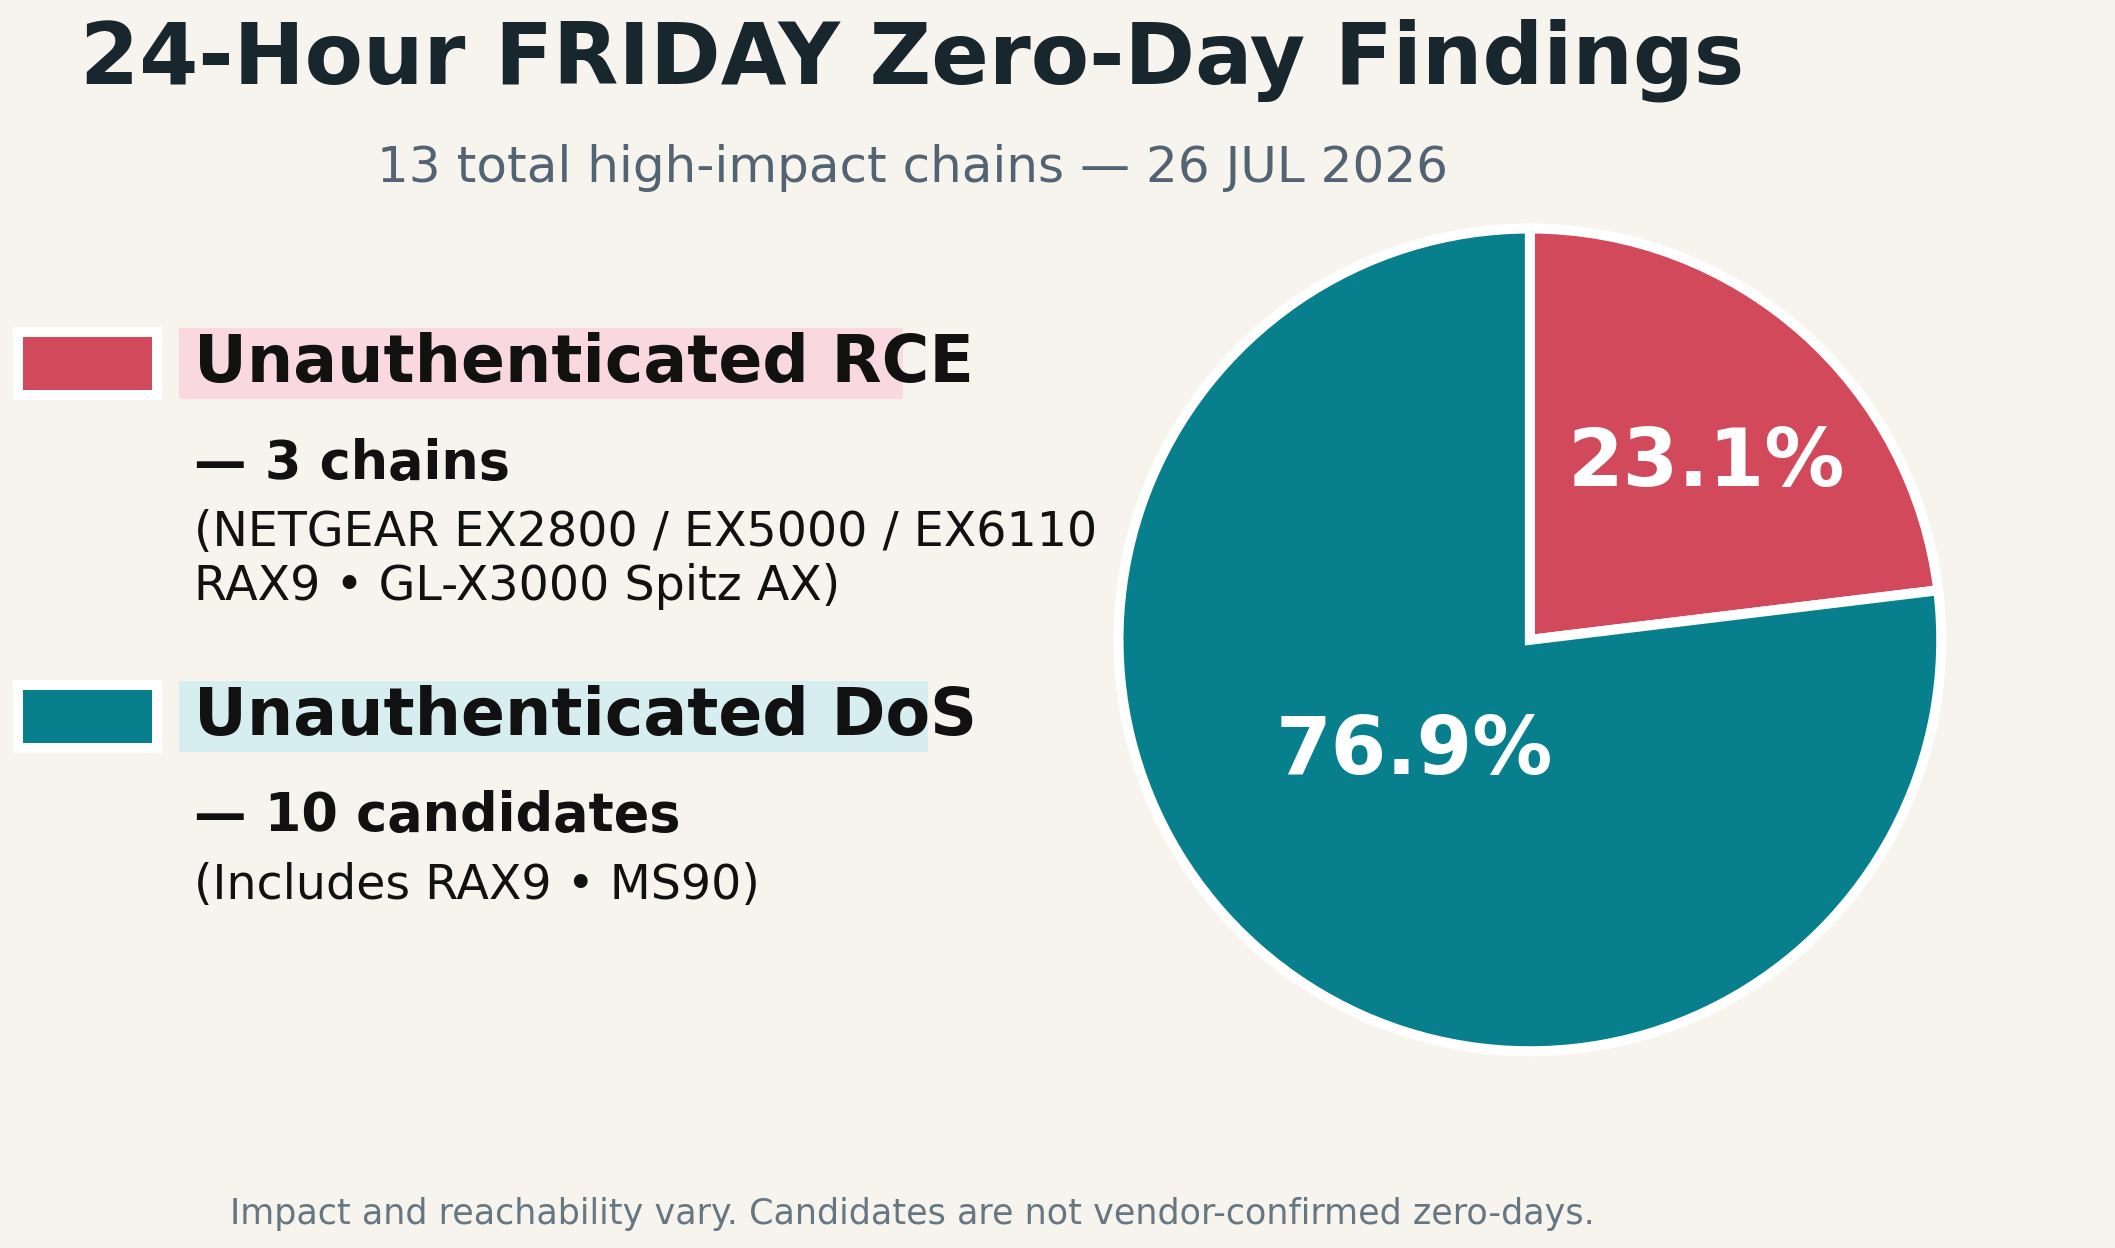
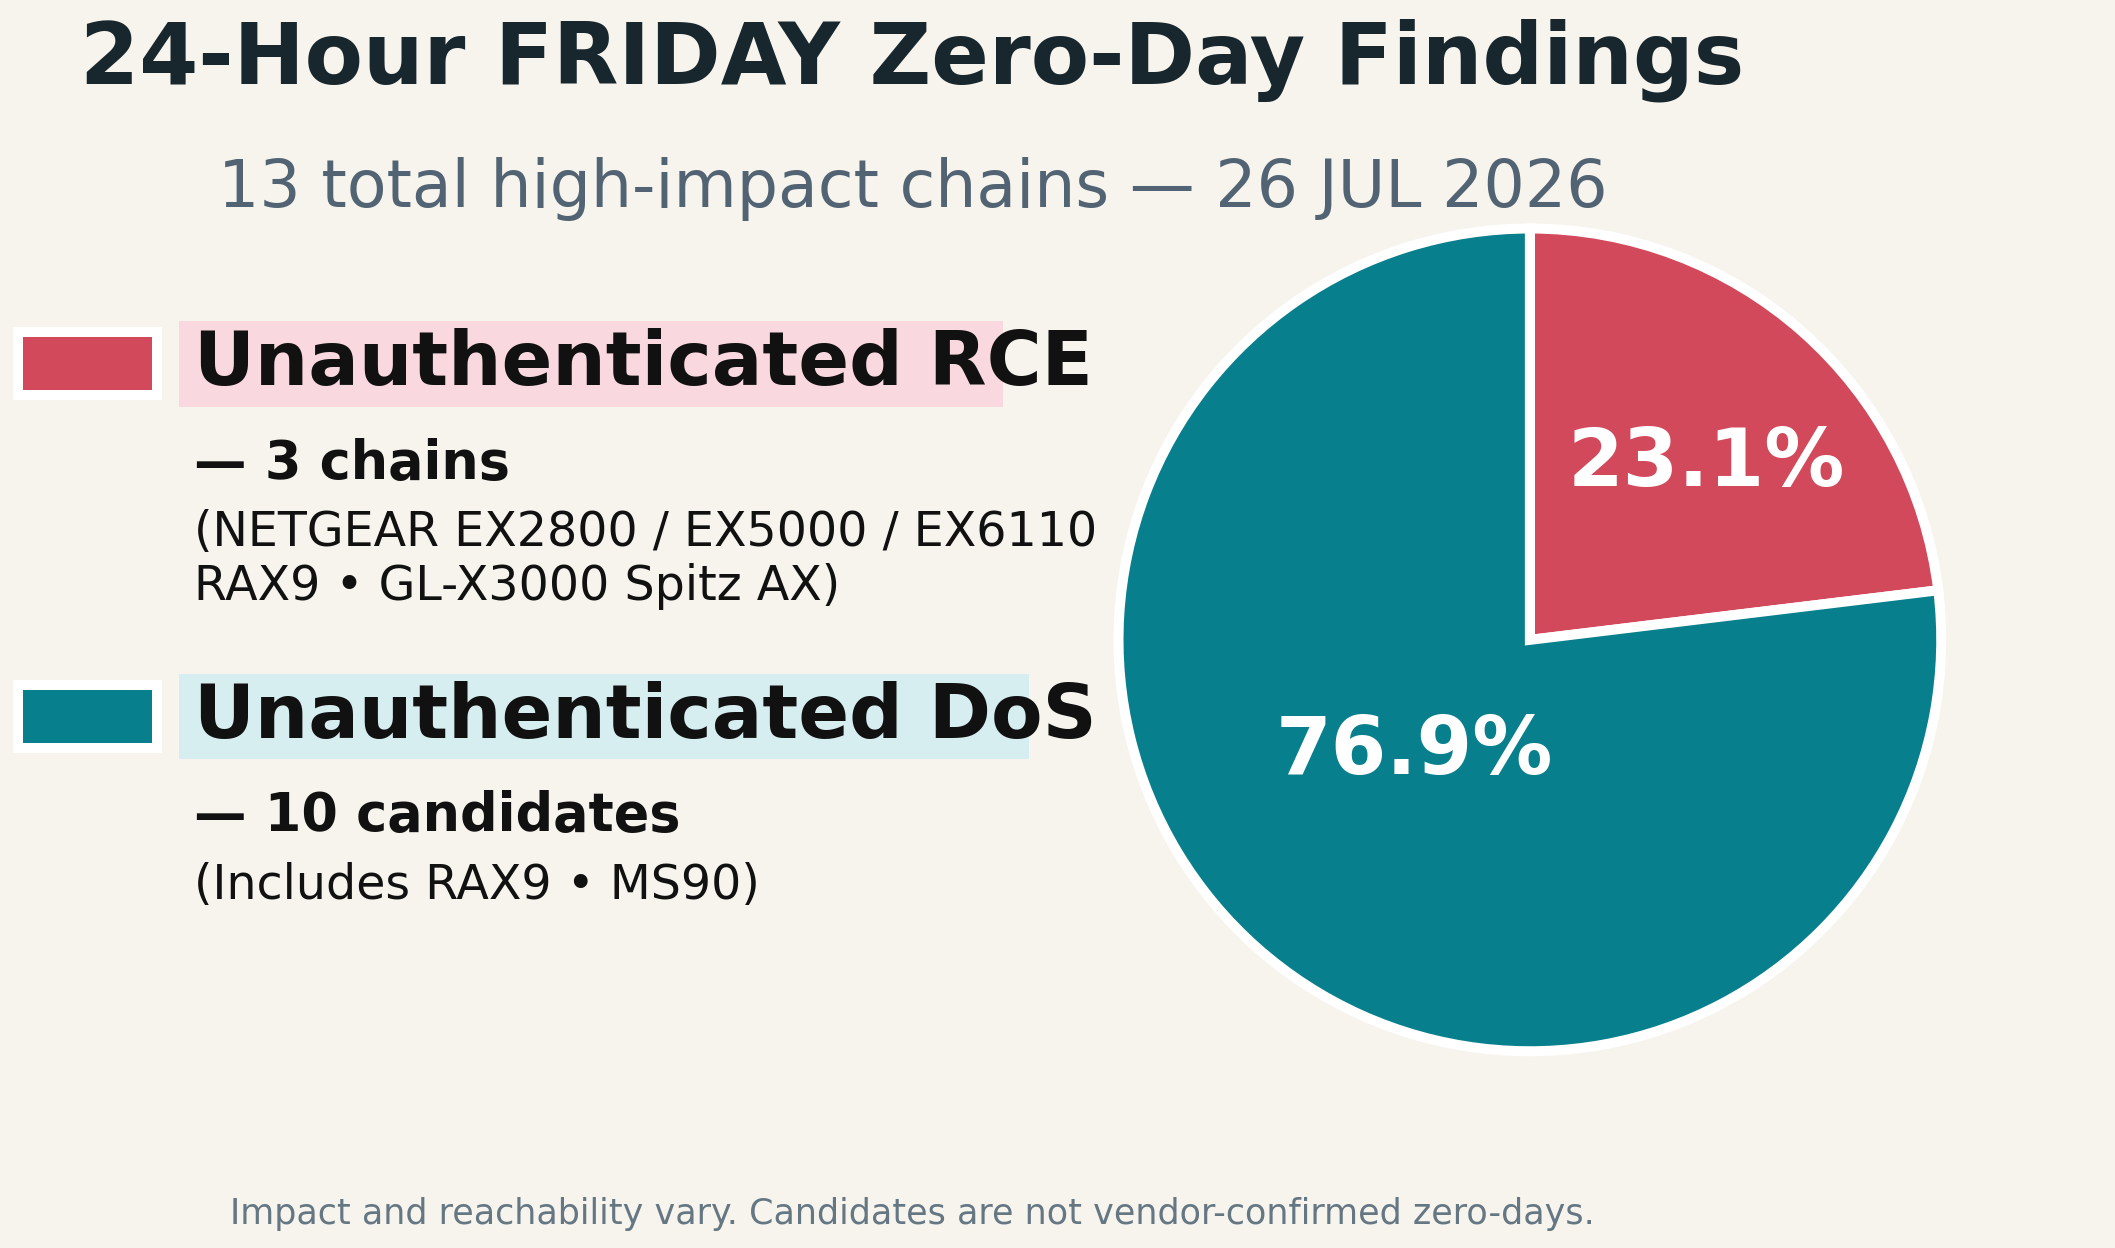
Further enlarge chart subtitle and categories

Changed region(s): [[0.0936, 0.5312, 0.5305, 0.625], [0.0936, 0.25, 0.5305, 0.3438], [0.0936, 0.0938, 0.7801, 0.1875]]

diff --git a/scripts/build_24_hour_findings_pie.py b/scripts/build_24_hour_findings_pie.py
@@ -37,7 +37,7 @@ def main() -> None:
 
     swatch_x = 0.145
     key_x = 0.215
-    heading_size = 26
+    heading_size = 30
     detail_size = 19
     for color, highlight, heading_y, heading, count_text, highlight_width, details in (
         (
@@ -46,7 +46,7 @@ def main() -> None:
             0.70,
             labels[0],
             f"— {counts[0]} chains",
-            0.275,
+            0.315,
             "(NETGEAR EX2800 / EX5000 / EX6110\nRAX9 • GL-X3000 Spitz AX)",
         ),
         (
@@ -55,7 +55,7 @@ def main() -> None:
             0.42,
             labels[1],
             f"— {counts[1]} candidates",
-            0.285,
+            0.325,
             "(Includes RAX9 • MS90)",
         ),
     ):
@@ -72,9 +72,9 @@ def main() -> None:
         )
         fig.add_artist(
             Rectangle(
-                (key_x - 0.006, heading_y - 0.028),
+                (key_x - 0.006, heading_y - 0.034),
                 highlight_width + 0.012,
-                0.056,
+                0.068,
                 transform=fig.transFigure,
                 facecolor=highlight,
                 edgecolor="none",
@@ -119,10 +119,10 @@ def main() -> None:
     )
     fig.text(
         0.5,
-        0.875,
+        0.865,
         "13 total high-impact chains — 26 JUL 2026",
         ha="center",
-        fontsize=20,
+        fontsize=26,
         color="#526473",
         va="top",
     )
